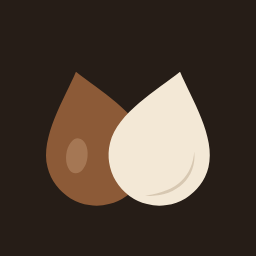
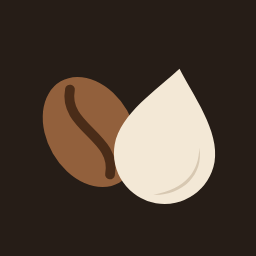
Pingado: café vira grão (oval com sulco em S), leite continua gota — formas diferentes para não confundir; ícone novo
Claude-Session: https://claude.ai/code/session_01VuAEu1YUHS9jy2dRVeSzM2

diff --git a/pingado/index.html b/pingado/index.html
@@ -28,8 +28,8 @@
     --cell: #faf4ea;
     --cell-line: rgba(110, 80, 50, .10);
     --cell-fix: #e6d8c4;
-    --cafe: #5a3923;
-    --cafe-hi: rgba(255, 235, 210, .30);
+    --cafe: #6e452a;
+    --cafe-slit: #3a2314;
     --leite: #fffdf8;
     --leite-st: #cdb99d;
     --leite-sh: rgba(150, 115, 75, .16);
@@ -54,8 +54,8 @@
       --cell: #2c241e;
       --cell-line: rgba(255, 255, 255, .04);
       --cell-fix: #1f1814;
-      --cafe: #8c5a37;
-      --cafe-hi: rgba(255, 225, 190, .22);
+      --cafe: #92603c;
+      --cafe-slit: #4a2c18;
       --leite: #f3e8d6;
       --leite-st: rgba(0, 0, 0, 0);
       --leite-sh: rgba(120, 85, 50, .22);
@@ -80,8 +80,8 @@
       --cell: #2c241e;
       --cell-line: rgba(255, 255, 255, .04);
       --cell-fix: #1f1814;
-      --cafe: #8c5a37;
-      --cafe-hi: rgba(255, 225, 190, .22);
+      --cafe: #92603c;
+      --cafe-slit: #4a2c18;
       --leite: #f3e8d6;
       --leite-st: rgba(0, 0, 0, 0);
       --leite-sh: rgba(120, 85, 50, .22);
@@ -109,7 +109,7 @@
   }
 
   /* ---------- tabuleiro ----------
-     Um SVG só: as casas, as gotas (café e leite) e os sinais = e × nas
+     Um SVG só: as casas, os grãos de café, as gotas de leite e os sinais = e × nas
      bordas entre as casas. */
   .stage { flex: 1 1 0; min-height: 0; display: flex; align-items: center; justify-content: center; padding: 4px 0; }
   #board { display: block; touch-action: none; overflow: visible; filter: drop-shadow(0 1px 1.5px rgba(40, 25, 10, .08)) drop-shadow(0 8px 20px rgba(40, 25, 10, .08)); }
@@ -119,7 +119,7 @@
   .b-cell.bad { fill: url(#hatch); }
   .hb { fill: var(--bad-soft); } .hl { fill: var(--bad); opacity: .4; }
   .d-cafe { fill: var(--cafe); }
-  .d-cafe-hi { fill: var(--cafe-hi); }
+  .d-cafe-slit { fill: none; stroke: var(--cafe-slit); stroke-width: 5; stroke-linecap: round; }
   .d-leite { fill: var(--leite); stroke: var(--leite-st); stroke-width: 3; }
   .d-leite-sh { fill: var(--leite-sh); }
   .drop { transform-box: fill-box; transform-origin: 50% 70%; }
@@ -212,7 +212,7 @@
 
 <header class="gh">
   <a class="gh-back" href="../" aria-label="Voltar aos Jogos do Dia" title="Jogos do Dia"><svg viewBox="0 0 24 24" width="22" height="22" fill="none" stroke="currentColor" stroke-width="2.6" stroke-linecap="round" stroke-linejoin="round" aria-hidden="true"><path d="M15 5l-7 7 7 7"/></svg></a>
-  <a class="gh-brand" href="./" aria-label="Pingado — recarregar"><img src="icon.png?v=1" data-escuro="icon-escuro.png?v=1" alt=""><b>PINGADO</b></a>
+  <a class="gh-brand" href="./" aria-label="Pingado — recarregar"><img src="icon.png?v=2" data-escuro="icon-escuro.png?v=2" alt=""><b>PINGADO</b></a>
   <div class="gh-pill" id="timer" aria-label="Tempo">0:00</div>
   <button class="gh-btn" id="helpBtn" aria-label="Como jogar" title="Como jogar"><svg viewBox="0 0 24 24" aria-hidden="true" fill="none" stroke="currentColor" stroke-width="2.4" stroke-linecap="round" stroke-linejoin="round"><circle cx="12" cy="12" r="9"/><path d="M9.3 9.3a2.8 2.8 0 0 1 5.4 1c0 1.9-2.7 2.5-2.7 4"/><path d="M12 17.6h.01"/></svg></button>
 </header>
@@ -234,7 +234,7 @@
   <div class="prog" aria-live="polite">
     <span class="bar"><i id="progBar"></i></span><span class="n" id="progN"><b>0</b>/0</span>
     <button class="done-bar" id="doneBar" tabindex="-1" aria-label="Jogo completo: ver resultado">
-      <img class="cup" src="icon.png?v=1" data-escuro="icon-escuro.png?v=1" alt="">
+      <img class="cup" src="icon.png?v=2" data-escuro="icon-escuro.png?v=2" alt="">
       <span class="txt"><b id="doneTitle">Pingado pronto</b><span id="doneSub"></span></span>
       <svg class="chev" viewBox="0 0 24 24" aria-hidden="true"><path d="M9 5l7 7-7 7"/></svg>
     </button>
@@ -249,7 +249,7 @@
 <div class="overlay" id="helpOverlay">
   <div class="modal">
     <h2>Como jogar <button class="close" data-close aria-label="Fechar">✕</button></h2>
-    <p>Preencha o tabuleiro com gotas de <b>café</b> <svg class="g" viewBox="-40 -37 80 80" id="gCafe"></svg> e de <b>leite</b> <svg class="g" viewBox="-40 -37 80 80" id="gLeite"></svg>.</p>
+    <p>Preencha o tabuleiro com grãos de <b>café</b> <svg class="g" viewBox="-40 -40 80 80" id="gCafe"></svg> e gotas de <b>leite</b> <svg class="g" viewBox="-40 -37 80 80" id="gLeite"></svg>.</p>
     <ul>
       <li>Cada <b>linha</b> e cada <b>coluna</b> tem o mesmo número de café e de leite.</li>
       <li>Nunca <b>três iguais seguidos</b>, na horizontal ou na vertical.</li>
@@ -271,7 +271,7 @@
 <div class="overlay" id="clearOverlay">
   <div class="modal" style="max-width:320px;text-align:center">
     <h2 style="justify-content:center">Esvaziar o tabuleiro?</h2>
-    <p style="color:var(--muted);margin:0 0 18px">Todas as gotas que você pôs saem. Dá para desfazer depois.</p>
+    <p style="color:var(--muted);margin:0 0 18px">Tudo o que você pôs sai. Dá para desfazer depois.</p>
     <button class="btn-main" id="clearYes">Recomeçar</button>
     <button class="close" data-close style="margin-top:12px;width:auto;padding:0 18px;height:36px;border-radius:99px">Cancelar</button>
   </div>
@@ -281,7 +281,7 @@
 <div class="overlay" id="endOverlay">
   <div class="modal fim">
     <div class="fim-top"><button class="fim-close" data-close aria-label="Fechar"><svg viewBox="0 0 24 24" aria-hidden="true"><path d="M6 6l12 12M18 6L6 18"/></svg></button></div>
-    <div class="fim-art"><img src="icon.png?v=1" data-escuro="icon-escuro.png?v=1" alt="" style="height:96px;border-radius:24px;box-shadow:0 4px 14px rgba(60,40,20,.15)"></div>
+    <div class="fim-art"><img src="icon.png?v=2" data-escuro="icon-escuro.png?v=2" alt="" style="height:96px;border-radius:24px;box-shadow:0 4px 14px rgba(60,40,20,.15)"></div>
     <h2 class="fim-title" id="endTitle">Pingado pronto!</h2>
     <div class="fim-result"><div class="fim-time" id="endTime">0:00</div></div>
     <p class="fim-sub" id="endSub"></p>
@@ -379,12 +379,13 @@
   }).catch(() => { $("stage").innerHTML = '<p class="tip">Não foi possível carregar o desafio. Verifique a conexão e tente de novo.</p>'; });
 
   // ---------- desenho ----------
-  // gota em pé, com a ponta para cima; (x, y) = centro da casa, s = escala (1 = casa de 100)
+  // café = grão (oval inclinado com o sulco em S); leite = gota em pé, com a ponta para cima
+  // (x, y) = centro da casa, s = escala (1 = casa de 100)
   function dropSVG(v, x, y, s = 1, cls = "") {
     const path = "M0 -34C9 -22 26 -6 26 10A26 26 0 0 1 -26 10C-26 -6 -9 -22 0 -34Z";
     const t = `translate(${x} ${y + 3}) scale(${s})`;
     // a posição fica no <g> de fora; a animação (CSS transform) só no de dentro
-    if (v === 1) return `<g transform="${t}"><g class="drop${cls}"><path class="d-cafe" d="${path}"/><ellipse class="d-cafe-hi" cx="-10" cy="8" rx="5.5" ry="9" transform="rotate(20 -10 8)"/></g></g>`;
+    if (v === 1) return `<g transform="translate(${x} ${y}) scale(${s}) rotate(-30)"><g class="drop${cls}"><ellipse class="d-cafe" rx="22" ry="30"/><path class="d-cafe-slit" d="M2 -24C-11 -9 11 9 -2 24"/></g></g>`;
     return `<g transform="${t}"><g class="drop${cls}"><path class="d-leite" d="${path}"/><path class="d-leite-sh" d="M17 4C22 18 12 30 -2 32C14 26 19 16 17 4Z"/></g></g>`;
   }
   // sinal na borda entre duas casas: = ou ×, sobre um quadradinho da cor do fundo

diff --git a/comum/catalogo.js b/comum/catalogo.js
@@ -28,7 +28,7 @@ const BASE_GAMES = [
   { id: "eclipse",    name: "Eclipse",    emoji: "🌗", desc: "Um sol e uma lua em cada linha", url: "eclipse/", icon: "eclipse/icon-claro.png?v=2", iconDark: "eclipse/icon-escuro.png?v=2", iconFull: true },
   { id: "novelo",     name: "Novelo",     emoji: "🧶", desc: "Um fio por todas as casas",     url: "novelo/", icon: "novelo/icon.png?v=2", iconDark: "novelo/icon-escuro.png?v=1", iconFull: true },
   { id: "retalhos",   name: "Retalhos",   emoji: "🧵", desc: "Uma colcha de retângulos",      url: "retalhos/", icon: "retalhos/icon.png?v=3", iconDark: "retalhos/icon-escuro.png?v=1", iconFull: true },
-  { id: "pingado",    name: "Pingado",    emoji: "☕", desc: "Café e leite em equilíbrio",    url: "pingado/", icon: "pingado/icon.png?v=1", iconDark: "pingado/icon-escuro.png?v=1", iconFull: true },
+  { id: "pingado",    name: "Pingado",    emoji: "☕", desc: "Café e leite em equilíbrio",    url: "pingado/", icon: "pingado/icon.png?v=2", iconDark: "pingado/icon-escuro.png?v=2", iconFull: true },
 ];
 
 /* ============================================================ */

diff --git a/sw.js b/sw.js
@@ -1,6 +1,6 @@
 // Service worker do Jogos do Dia.
 // Deixa o painel instalável e funcionando offline (sempre tenta a versão mais nova primeiro).
-const CACHE = "jogos-do-dia-v73";
+const CACHE = "jogos-do-dia-v74";
 const FILES = ["./", "./index.html", "./manifest.json", "./icon-192.png", "./icon-512.png", "./apple-touch-icon.png"];
 
 self.addEventListener("install", e => {

diff --git a/README.md b/README.md
@@ -164,13 +164,13 @@ Arraste de um canto ao outro para desenhar um retalho: o contorno e o selo mostr
 
 ## Pingado
 
-O Tango (LinkedIn) em português, com **café e leite**: gotas de café (marrom) e de leite (creme) no lugar de sol e lua.
+O Tango (LinkedIn) em português, com **café e leite**: grãos de café e gotas de leite no lugar de sol e lua (formas diferentes, para não confundir).
 
 - Cada **linha** e cada **coluna** tem o mesmo número de café e de leite.
 - Nunca **três iguais seguidos**, na horizontal ou na vertical.
 - **=** entre duas casas: iguais; **×**: diferentes.
 
-Toque numa casa para trocar: vazia → café → leite → vazia. Arrastar o dedo aplica a mesma troca em cada casa por onde ele passa. As casas que já vêm preenchidas têm fundo mais escuro e não mudam. O que quebra uma regra fica com listras vermelhas (e o sinal desrespeitado fica vermelho), e a linha de baixo diz qual regra. Controles embaixo: desfazer, barra de progresso (casas preenchidas) e recomeçar. Ao completar, as gotas dão um pulinho e a barra vira "Pingado pronto" com o tempo.
+Toque numa casa para trocar: vazia → café → leite → vazia. Arrastar o dedo aplica a mesma troca em cada casa por onde ele passa. As casas que já vêm preenchidas têm fundo mais escuro e não mudam. O que quebra uma regra fica com listras vermelhas (e o sinal desrespeitado fica vermelho), e a linha de baixo diz qual regra. Controles embaixo: desfazer, barra de progresso (casas preenchidas) e recomeçar. Ao completar, os grãos e as gotas dão um pulinho e a barra vira "Pingado pronto" com o tempo.
 
 **Desafios.** Um por dia a partir de 28/09/2026 (#1), em `pingado/desafios.json`, conferidos pelo `pingado/gerador.mjs` (com `pingado/motor.mjs`): **solução única** e **só dedução**. O gerador sorteia um tabuleiro completo, começa com todas as casas e parte dos sinais como pistas e vai tirando pistas enquanto o resolvedor "humano" continuar chegando ao fim no nível do dia. Técnicas do resolvedor: (1) pares e buracos (XX_, X_X), sinais e linha que já tem metade de um tipo; (2) olhar a linha inteira: das combinações válidas que sobram, as casas iguais em todas são certas; (3) testar um valor e ver que ele leva a contradição.
 
